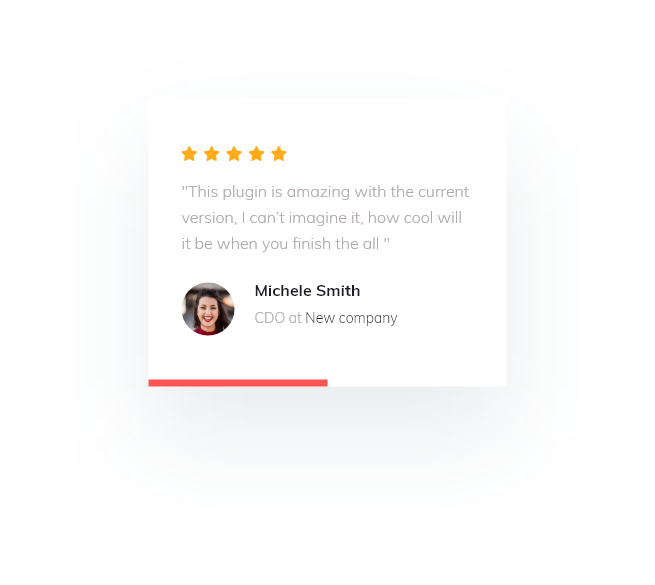
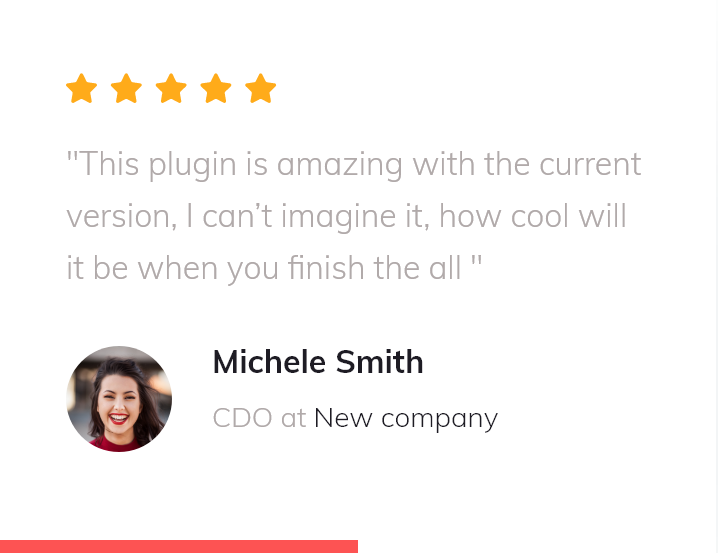
added footer section and comment section

diff --git a/css/home.css b/css/home.css
@@ -117,6 +117,40 @@ input{
 .footer{
     text-align: center;
 }
+.footer h3{
+    margin-top: 3rem;
+    margin-bottom: 2px;
+}
+.footer p {
+    margin-bottom: 10px;
+}
+#leftClass{
+    float:left;
+    width: 20%;
+    background-color: aquamarine;
+}
+#leftClass img{
+    width: 30%;
+    position: relative;
+    transform: translate(-120%, -10%);
+}
+#middleClass{
+    float:left;
+    width:50%;
+    background-color: burlywood;
+}
+#rightClass{
+    float:left;
+    width: 30%;
+    background-color: purple;
+}
+#rightClass img{
+    width: 100%;
+    height: 200%;
+    position: relative;
+    transform: translate(50%,-40%);
+    z-index: -1;
+}
 .centerImg{
     width: 10%;
     height: 10%;
@@ -161,11 +195,14 @@ h3{
     padding: 1em;
     float: left;
     width: 45%;
-    background-color: yellow;
+    height: 394px;
+    background-color: lightgray;
 }
-.left img{
-    width:60%;
-    height:40%;
+.left img {
+    width: 100%;
+    height: 200%;
+    position: relative;
+    transform: translate(35%,-30%);
 }
 #shape{
     width: 40vw;
@@ -174,14 +211,6 @@ h3{
     transform: translate(-50%, -10%);
 }
 
-.pic{
-    position:relative;
-    margin-top: 5%;
-}
-.pic > img{
-    width:15vw;
-    height: 25vh;
-}
 #group{
     z-index:-1;   
 }
@@ -196,22 +225,21 @@ h3{
     left: 7%;
     z-index: -2;
 }
-/*
+
 .row{
     display: flex;
-}
-*/
-.comment{
-    width:30vw;
-    height:30vh;
+    flex-wrap: nowrap;
+    justify-content: center;
 }
 
-  /* Create three equal columns that sits next to each other */
+.comment{
+    width:25vw;
+    height: 40vh;
+   
+}
+ 
 .column {
-    flex: 33.33%;
-    justify-content: center;
-    padding: 10px;
-    margin:10px;
+    margin: 1em 20px;
 }
 
 /*
@@ -235,6 +263,27 @@ h3{
 /* Extra small devices (phones, 600px and down) */
 @media only screen and (max-width: 600px) {
     body{background:lightgrey;}
+    h3{
+        margin-top: 3rem;
+        margin-bottom: 1.5rem;
+        text-align: center;
+    }
+    .row{
+        display: flex;
+        flex-wrap: nowrap;
+        justify-content: center;
+        justify-items: center;
+        flex-direction: column;
+    }
+     
+    .column {
+        margin: 1em 20px;
+        text-align: center;
+        
+    }
+    .column img{
+        width: 15rem ;
+    }
     .pictures{
         display: none;
     }
@@ -271,6 +320,13 @@ h3{
         padding: 10px;
         grid-gap: 2% 10%;
     }
+    #leftClass,#rightClass{
+        display:none;
+    }
+    #middleClass{
+        width:100%;
+        background-color: burlywood;
+    }
     /*
     #secondImg, #thirdImg{
         position: absolute;
@@ -280,7 +336,27 @@ h3{
 /* Small devices (portrait tablets and large phones, 600px and up) */
 @media only screen and (min-width: 600px) and (max-width:767px) {
     body{background: purple;}
-   
+    h3{
+        margin-top: 3rem;
+        margin-bottom: 1.5rem;
+        text-align: center;
+    }
+    .row{
+        display: flex;
+        flex-wrap: nowrap;
+        justify-content: center;
+        justify-items: center;
+        flex-direction: column;
+    }
+     
+    .column {
+        margin: 1em 20px;
+        text-align: center;
+        
+    }
+    .column img{
+        width: 20rem ;
+    }
     .pictures, #btn{
         display: none;
     }
@@ -317,8 +393,13 @@ h3{
         padding: 10px;
         grid-gap: 2% 18%;
     }
-    
-   
+    #leftClass,#rightClass{
+        display:none;
+    }
+    #middleClass{
+        width:100%;
+        background-color: burlywood;
+    }
 }
 /* Medium devices (landscape tablets, 768px and up) */
 @media only screen and (min-width: 768px) and (max-width:991px) {
@@ -356,13 +437,17 @@ h3{
         grid-gap: 2% 20%;
     }
     .row{
-        display: flex;
-        
+        display: flex;  
     }
     .centerTxt{
         text-align: center;
         display: flex;
         flex-direction: column;
+    }
+    #leftClass img {
+        width: 30%;
+        position: relative;
+        transform: translate(-120%, 20%);
     }
    
 } 

diff --git a/index.html b/index.html
@@ -83,22 +83,17 @@
             <img class="arrow" src="./images/red-arrow.png" alt="red arrow" >
         </div>
     </div>
-    <br><br><br>
-    <div>
-        <div>
+    <div class="clearfix">
+        <div class="right">
             <h3>Seamless Team <br>  Workflow & Efficient <br> Task Management</h3>
             <p>Lorem ipsum Lorem ipsum Lorem ipsum Lorem ipsum Lorem ipsum Lorem ipsum Lorem ipsum Lorem ipsum Lorem ipsum Lorem ipsum Lorem ipsum Lorem ipsum Lorem ipsum Lorem ipsum Lorem ipsum </p>
             <a href="https://www.w3schools.com/howto/howto_css_image_center.asp">Learn more</a>
             <img class="arrow" src="./images/red-arrow.png" alt="red arrow" >
         </div>
-        <div class="pic">
-            <img id="group" src="./images/group.png" alt="group">
-            <img id="top-pic" src="./images/banner.png" alt="banner">
-            <img id="elipsa" src="./images/elipsa.png" alt="elipsa">
+        <div class="left">
+            <img src="./images/circle.png" alt="circles and statistics">
         </div>
     </div>
-    <br>
-    
     <h3 class="centerTxt">What clients are saying</h3>
     <div class="row">
         <div class="column">
@@ -114,11 +109,21 @@
     
 
     <footer class="footer">
-        <h4>Get better work done</h4>
-        <p>See why millions across the world use dash</p>
+        <div class="clearfix">
+            <div id="leftClass">
+                <img src="./images/piece.png" alt="red triangle">
+            </div>
+            <div id="middleClass">
+                <h3>Get better work done</h3>
+                <p>See why millions across 195 <br> countries  use dash</p>
 
-        <input type="email" placeholder="name@company.name">
-        <button>Try for free</button>
+                <input type="email" placeholder="name@company.name">
+                <button>Try for free</button>
+            </div>
+            <div id="rightClass">
+                <img src="./images/circle-dash.png" alt="circle and dash">
+            </div>
+        </div>
     </footer>
     
     </div>
